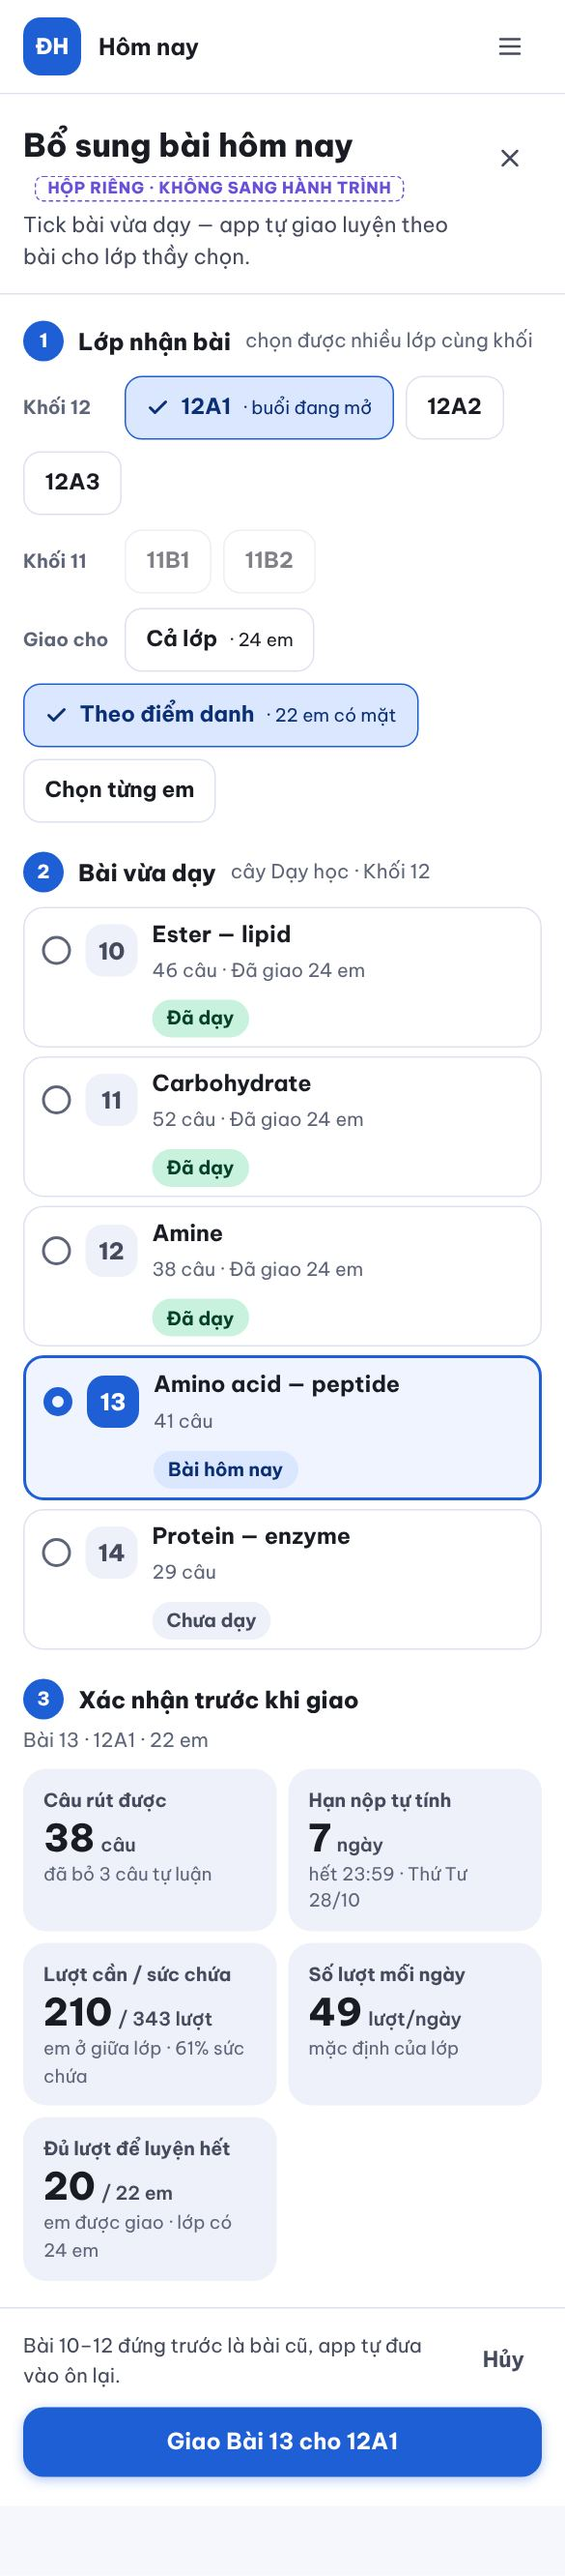
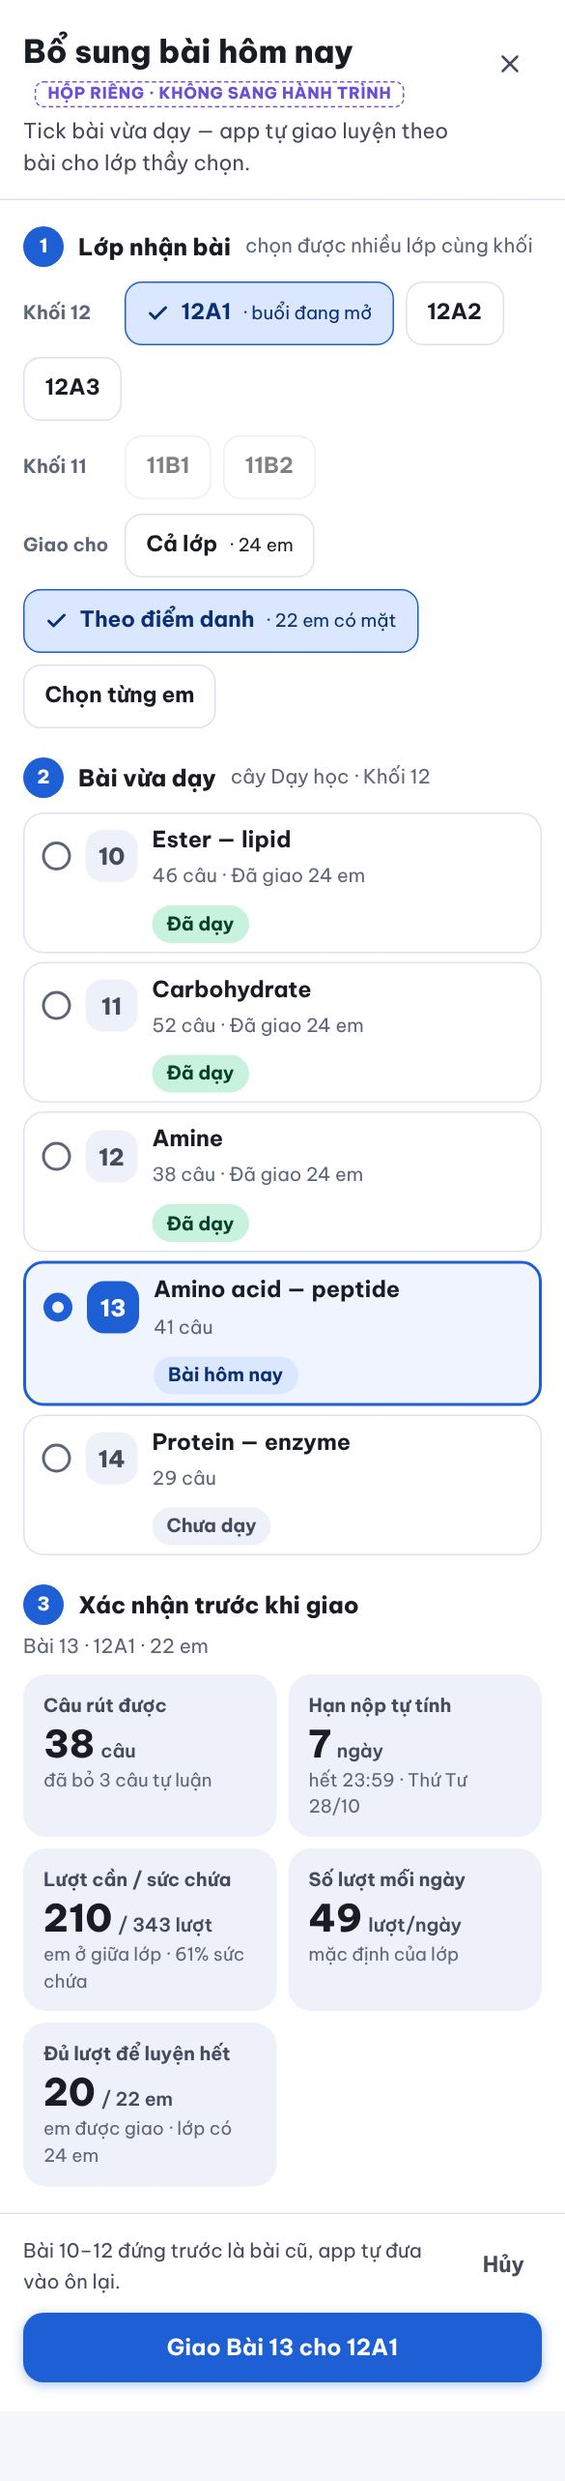
Đặc tả hộp Bổ sung bài: nguồn điểm danh, nhớ lớp/bài khi mở lại, ẩn khi OMNI tắt; tấm phủ kín màn điện thoại
Claude-Session: https://claude.ai/code/session_01CrpgidcX411RqtxkbZ6xor

diff --git a/docs/ban-ve-hanh-trinh-2110/hanh-trinh.html b/docs/ban-ve-hanh-trinh-2110/hanh-trinh.html
@@ -228,6 +228,7 @@ svg.i{width:20px;height:20px;flex:none;fill:none;stroke:currentColor;stroke-widt
 
 /* ── khung 4: Hôm nay + hộp Bổ sung bài hôm nay ── */
 body[data-k=bo-sung] .dau{display:none}
+@media (max-width:600px){body[data-k=bo-sung] .tren{display:none}}
 @media (min-width:1024px){.che{inset:-32px -36px -64px}}
 .hn{position:relative;min-height:1180px}
 .hn-dau{display:flex;flex-wrap:wrap;align-items:center;gap:12px 16px}

diff --git a/docs/dac-ta-hanh-trinh-1-trang-2110.md b/docs/dac-ta-hanh-trinh-1-trang-2110.md
@@ -42,6 +42,11 @@ Thầy dặn: "nút này làm riêng bấm vào popup lên để chọn luôn ch
 - Chân hộp dính đáy: "Hủy" và nút chính "Giao Bài N cho <lớp>". Giao xong thì hộp báo kết quả thật theo máy chủ rồi tự đóng; Bài đang giao và các số đếm cập nhật.
 - Ở Hành trình, nút "Tick bài hôm nay" của bước 3 mở **cùng hộp này**, để có một chỗ chọn bài duy nhất.
 - Tách thành phần: `HopBoSungBai.tsx` (vỏ hộp) + `BuocBaiHomNay` (thân). Hộp chỉ nạp lười khi bấm nút.
+- **Điểm danh (`dd`) của hộp:** `useBaiHomNay(dd, …)` cần `dd`.
+  - Mở từ Hôm nay: hộp tự gọi `useDiemDanhBuoi()`, và chỉ gọi khi hộp mở.
+  - Mở từ Hành trình bước 3: dùng đúng `dd` dùng chung của trang, không tạo bản thứ hai.
+- **Nhớ lựa chọn:** lớp tự chọn và bài đang chọn (`lopTay`, `chonNho`, `datNho`, sửa ở Đợt 16) chuyển lên chỗ sống lâu hơn hộp, tức kho chung theo buổi. Đóng hộp rồi mở lại, từ lối nào cũng vậy, vẫn còn đúng lớp và bài đã chọn.
+- **Công tắc OMNI tắt** hoặc máy chủ chưa có lệnh: **ẩn** nút "Bổ sung bài hôm nay" ở Hôm nay, nút chính trở về việc gấp kế tiếp. Ẩn luôn nút "Tick bài hôm nay" ở bước 3, như hiện nay bước Bài hôm nay chỉ hiện khi OMNI bật.
 - Bỏ đường `moHanhTrinh({ boSungBai: true })` cùng tham số `boSungBai` / `lanBoSung` (cuộn tới bước Tick). Lối cũ nào còn gọi `boSungBai` thì mở hộp.
 
 ## 2c. Phần còn lại
@@ -69,6 +74,7 @@ Thầy dặn: "nút này làm riêng bấm vào popup lên để chọn luôn ch
 ## 5. Ngoại lệ
 - **Lối vào cũ không gãy:** khoá `can-chua` (Hôm nay › Cần thầy chữa) cuộn tới bước 4 và mở nó. Các khoá `dau-gio`, `goi-7`, `nhip`, `bai-hang-ngay` vào bước tương ứng.
 - **"Bổ sung bài"**: mở hộp (mục 2b), không cuộn.
+- Đóng hộp rồi mở lại (từ Hôm nay hay từ Hành trình): vẫn đúng lớp và bài đã chọn (lỗi Đợt 16 không được quay lại).
 - Đang giao mà bấm đóng hộp: hỏi lại trước khi đóng. Mất mạng giữa lúc giao: báo đúng những lớp đã giao xong và những lớp chưa (máy chủ giao lần lượt từng lớp).
 - **Phím → trên bản chiếu Nhịp học** (`sangDauGio`): mở bước 2 trước, rồi mới bấm nút "Chiếu lên bảng" của bước đó.
 - **Đổi chữ:** dòng chân "Câu nhiều em sai … nằm ở mục Chữa bài ›" trong Bài đang giao đổi thành "… ở bước 4 Chữa câu khó ›" và cuộn tới bước 4.
@@ -80,7 +86,7 @@ Thầy dặn: "nút này làm riêng bấm vào popup lên để chọn luôn ch
 ## 6. Chi phí máy chủ + tốc độ
 - **0 lệnh máy chủ mới, 0 vòng chờ D1 thêm.**
 - Bước 4 **không tải lúc mở màn**. Phần thân (`TheCanThayChua` + `ThayTuChua`) chỉ nạp lười khi thầy bấm mở bước 4, hoặc bấm "Chữa câu" trên thước, hoặc vào bằng khoá `can-chua`. Như vậy số byte và số lượt đọc lúc mở màn **không tăng** so với mục mặc định "Dạy học & đầu giờ" hiện nay.
-- Hộp Bổ sung bài: thêm 0 lệnh. Kho chỉ tải khi mở hộp, như bước Bài hôm nay hiện nay. Màn Hôm nay mở ra **không nạp** thêm byte nào.
+- Hộp Bổ sung bài: **0 lệnh máy chủ mới**. Kho chỉ tải khi mở hộp, như bước Bài hôm nay hiện nay. Màn Hôm nay mở ra không nạp thêm byte nào. Riêng khi mở hộp từ Hôm nay có thêm một lượt tìm buổi đang mở (`useDiemDanhBuoi`), chạy **song song** với lúc tải kho, không nối tiếp.
 - Kiểm tra ôn tập (`BangKiemTraCaNhan`) đang tải ngay lúc mở; sau này chỉ tải khi bấm "Xem", nên giảm được một lượt đọc lúc mở màn.
 - Đáp án không đổi đường đi. Lời giải chỉ hiện trên máy thầy như cũ.
 
@@ -88,7 +94,7 @@ Thầy dặn: "nút này làm riêng bấm vào popup lên để chọn luôn ch
 - Test vitest:
   - sửa các test đang dò hai thẻ `gvv2-muc-nut` (tìm bằng `grep -rl "gvv2-muc\|THE_HANH_TRINH" tests`);
   - thêm `tests/hanh-trinh-mot-trang-2110.test.ts`: đủ 4 bước theo đúng thứ tự; không còn `role="tab"`; chỉ một `.nut-chinh` ở bước đang mở; khi chưa có ai điểm danh vẫn mở được bước 3 và bước 4 (không khoá); bước 2, 3, 4 nhận đúng một `dd` dùng chung; đổi bước không gỡ thành phần bước cũ; khoá `can-chua` mở bước 4; bước 4 không nạp mảnh khi chưa mở.
-  - thêm `tests/hop-bo-sung-bai-2110.test.ts`: bấm "Bổ sung bài hôm nay" ở Hôm nay thì mở hộp (`role="dialog"`) và không đổi màn; Esc đóng hộp; nút "Tick bài hôm nay" ở bước 3 mở cùng hộp; hộp có một nút chính "Giao Bài …".
+  - thêm `tests/hop-bo-sung-bai-2110.test.ts`: bấm "Bổ sung bài hôm nay" ở Hôm nay thì mở hộp (`role="dialog"`) và không đổi màn; Esc đóng hộp; nút "Tick bài hôm nay" ở bước 3 mở cùng hộp; hộp có một nút chính "Giao Bài …"; đóng rồi mở lại vẫn giữ lớp và bài đã chọn; OMNI tắt thì không có nút; mở từ bước 3 dùng chung `dd` của trang.
 - `npx tsc --noEmit` sạch. `npm run build && npm run kiem:toc-do` 0 đỏ. `npm run kiem:mau-giu` 0. `node scripts/kiem-sw.mjs` đạt.
 - Ảnh Chromium màn thật 390 / 844 / 1440, sáng và tối: 0 lỗi trang, 0 tràn ngang, 0 đích bấm < 44 px.
 
